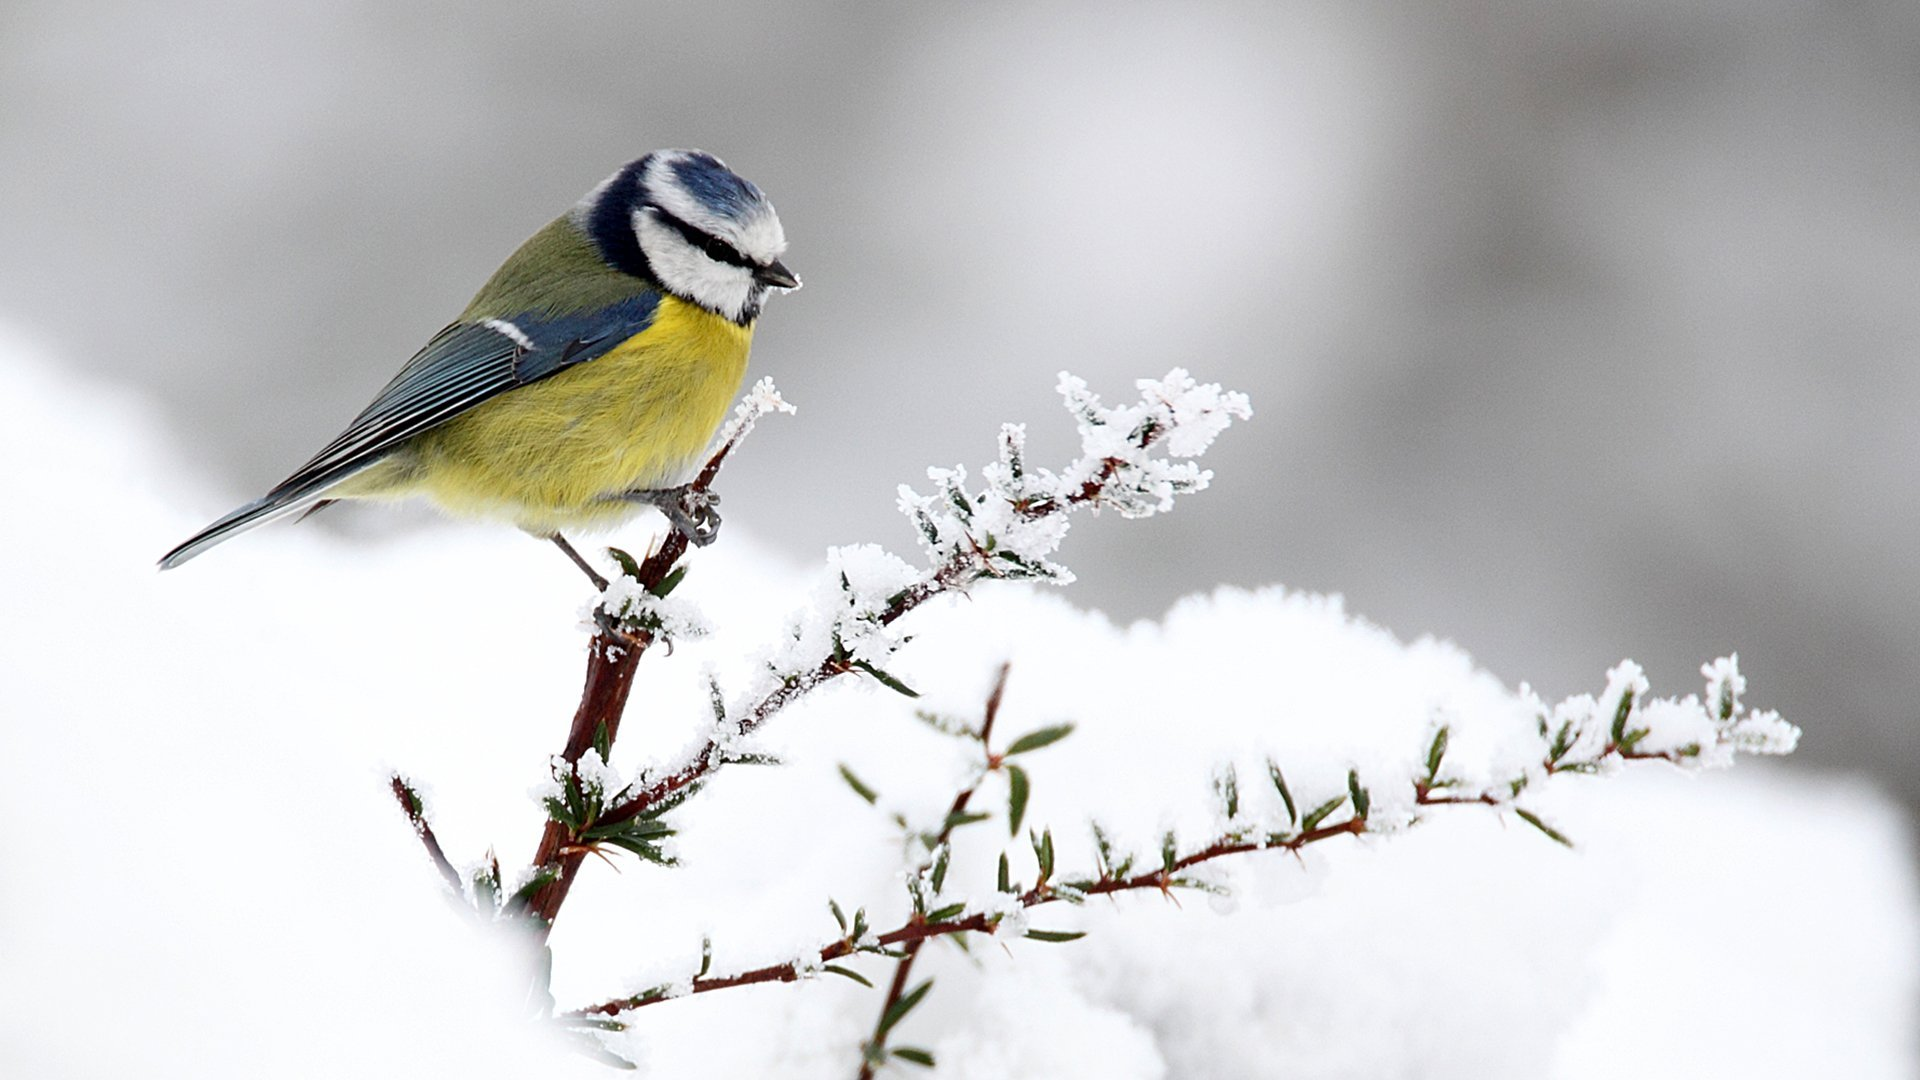
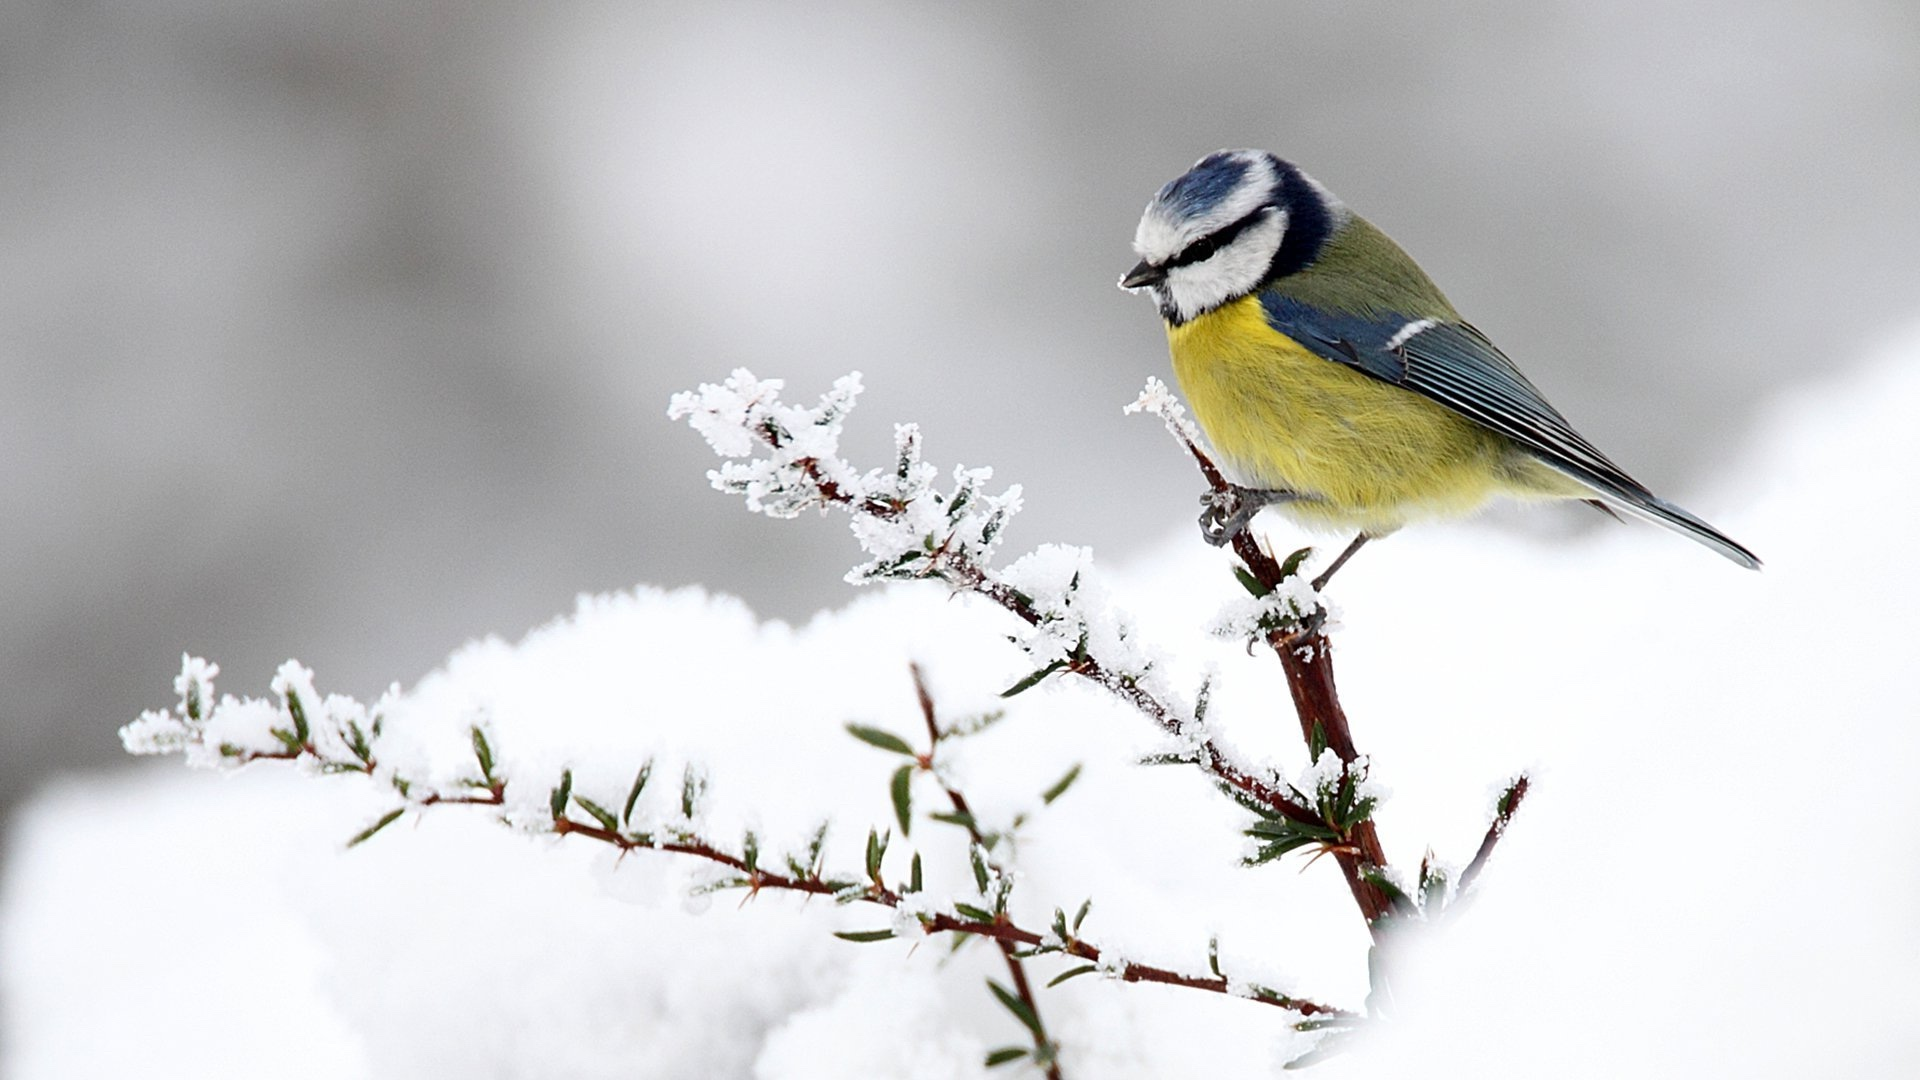
1

diff --git a/index.html b/index.html
@@ -102,7 +102,7 @@ height="0" width="0" style="display:none;visibility:hidden"></iframe></noscript>
     {"@context":"https://schema.org","@type":"WebSite","name":"Kormushka.by","alternateName":["Kormuhka","Кормушки для птиц в Беларуси"],"url":"https://kormuhka.github.io/","inLanguage":"ru"}
     </script>
     <script type="application/ld+json">
-    {"@context":"https://schema.org","@type":"Organization","name":"Kormushka.by","alternateName":"Kormuhka","url":"https://kormuhka.github.io/","logo":"https://kormuhka.github.io/assets/img/logo/logo.png","email":"kormushka24.by@gmail.com","areaServed":"BY","description":"Сетчатые, бункерные и деревянные кормушки для птиц ручной работы в Беларуси."}
+    {"@context":"https://schema.org","@type":"Organization","name":"Kormushka.by","alternateName":"Kormuhka","url":"https://kormuhka.github.io/","logo":"https://kormuhka.github.io/assets/img/logo/logo-final.png","email":"kormushka24.by@gmail.com","areaServed":"BY","description":"Сетчатые, бункерные и деревянные кормушки для птиц ручной работы в Беларуси."}
     </script>
 
 </head>
@@ -190,7 +190,7 @@ height="0" width="0" style="display:none;visibility:hidden"></iframe></noscript>
                         <div class="col-lg-3">
                             <div class="categories_menu">
                                 <div class="logo">
-                                <a href="/"><img src="assets/img/logo/logo.png" alt="Kormushka.by — кормушки для птиц в Беларуси"></a>
+                                <a href="/"><img src="assets/img/logo/logo-final-small.png" alt="Kormuhka — кормушки для птиц в Беларуси"></a>
                                 </div>
                             </div>
                         </div>
@@ -459,7 +459,7 @@ height="0" width="0" style="display:none;visibility:hidden"></iframe></noscript>
                     <div class="col-lg-4 col-md-5">
                         <div class="widgets_container widget_app">
                             <div class="footer_logo">
-                                <a href="/"><img src="assets/img/logo/logo.png" alt="Kormushka.by — кормушки для птиц в Беларуси"></a>
+                                <a href="/"><img src="assets/img/logo/logo-final-small.png" alt="Kormuhka — кормушки для птиц в Беларуси"></a>
                             </div>
 
                             <div class="footer_social">

diff --git a/contact.html b/contact.html
@@ -64,11 +64,11 @@
     <meta property="og:title" content="Контакты — Kormushka.by">
     <meta property="og:description" content="Связаться с Kormushka.by: вопросы по кормушкам для птиц, заказ и доставка по Беларуси.">
     <meta property="og:url" content="https://kormuhka.github.io/contact">
-    <meta property="og:image" content="https://kormuhka.github.io/assets/img/logo/logo.png">
+    <meta property="og:image" content="https://kormuhka.github.io/assets/img/logo/og-final.png">
     <meta name="twitter:card" content="summary_large_image">
     <meta name="twitter:title" content="Контакты — Kormushka.by">
     <meta name="twitter:description" content="Связаться с Kormushka.by: вопросы по кормушкам для птиц, заказ и доставка по Беларуси.">
-    <meta name="twitter:image" content="https://kormuhka.github.io/assets/img/logo/logo.png">
+    <meta name="twitter:image" content="https://kormuhka.github.io/assets/img/logo/og-final.png">
 
 </head>
 
@@ -155,7 +155,7 @@
                         <div class="col-lg-3">
                             <div class="categories_menu">
                                 <div class="logo">
-                                <a href="/"><img src="assets/img/logo/logo.png" alt=""></a>
+                                <a href="/"><img src="assets/img/logo/logo-final-small.png" alt="Kormuhka — кормушки для птиц в Беларуси"></a>
                                 </div>
                             </div>
                         </div>
@@ -332,7 +332,7 @@
                     <div class="col-lg-4 col-md-5">
                         <div class="widgets_container widget_app">
                             <div class="footer_logo">
-                                <a href="/"><img src="assets/img/logo/logo.png" alt=""></a>
+                                <a href="/"><img src="assets/img/logo/logo-final-small.png" alt="Kormuhka — кормушки для птиц в Беларуси"></a>
                             </div>
 
                             <div class="footer_social">

diff --git a/CRD01A0826.html b/CRD01A0826.html
@@ -162,7 +162,7 @@ height="0" width="0" style="display:none;visibility:hidden"></iframe></noscript>
                         <div class="col-lg-3">
                             <div class="categories_menu">
                                 <div class="logo">
-                                <a href="/"><img src="assets/img/logo/logo.png" alt=""></a>
+                                <a href="/"><img src="assets/img/logo/logo-final-small.png" alt="Kormuhka — кормушки для птиц в Беларуси"></a>
                                 </div>
                             </div>
                         </div>
@@ -400,7 +400,7 @@ height="0" width="0" style="display:none;visibility:hidden"></iframe></noscript>
                     <div class="col-lg-4 col-md-5">
                         <div class="widgets_container widget_app">
                             <div class="footer_logo">
-                                <a href="/"><img src="assets/img/logo/logo.png" alt=""></a>
+                                <a href="/"><img src="assets/img/logo/logo-final-small.png" alt="Kormuhka — кормушки для птиц в Беларуси"></a>
                             </div>
 
                             <div class="footer_social">

diff --git a/fluger-indeec.html b/fluger-indeec.html
@@ -162,7 +162,7 @@ height="0" width="0" style="display:none;visibility:hidden"></iframe></noscript>
                         <div class="col-lg-3">
                             <div class="categories_menu">
                                 <div class="logo">
-                                <a href="/"><img src="assets/img/logo/logo.png" alt=""></a>
+                                <a href="/"><img src="assets/img/logo/logo-final-small.png" alt="Kormuhka — кормушки для птиц в Беларуси"></a>
                                 </div>
                             </div>
                         </div>
@@ -400,7 +400,7 @@ height="0" width="0" style="display:none;visibility:hidden"></iframe></noscript>
                     <div class="col-lg-4 col-md-5">
                         <div class="widgets_container widget_app">
                             <div class="footer_logo">
-                                <a href="/"><img src="assets/img/logo/logo.png" alt=""></a>
+                                <a href="/"><img src="assets/img/logo/logo-final-small.png" alt="Kormuhka — кормушки для птиц в Беларуси"></a>
                             </div>
 
                             <div class="footer_social">

diff --git a/fluger-pchela.html b/fluger-pchela.html
@@ -162,7 +162,7 @@ height="0" width="0" style="display:none;visibility:hidden"></iframe></noscript>
                         <div class="col-lg-3">
                             <div class="categories_menu">
                                 <div class="logo">
-                                <a href="/"><img src="assets/img/logo/logo.png" alt=""></a>
+                                <a href="/"><img src="assets/img/logo/logo-final-small.png" alt="Kormuhka — кормушки для птиц в Беларуси"></a>
                                 </div>
                             </div>
                         </div>
@@ -399,7 +399,7 @@ height="0" width="0" style="display:none;visibility:hidden"></iframe></noscript>
                     <div class="col-lg-4 col-md-5">
                         <div class="widgets_container widget_app">
                             <div class="footer_logo">
-                                <a href="/"><img src="assets/img/logo/logo.png" alt=""></a>
+                                <a href="/"><img src="assets/img/logo/logo-final-small.png" alt="Kormuhka — кормушки для птиц в Беларуси"></a>
                             </div>
 
                             <div class="footer_social">

diff --git a/kormushka-bunkernaya.html b/kormushka-bunkernaya.html
@@ -182,7 +182,7 @@ height="0" width="0" style="display:none;visibility:hidden"></iframe></noscript>
                         <div class="col-lg-3">
                             <div class="categories_menu">
                                 <div class="logo">
-                                <a href="/"><img src="assets/img/logo/logo.png" alt=""></a>
+                                <a href="/"><img src="assets/img/logo/logo-final-small.png" alt="Kormuhka — кормушки для птиц в Беларуси"></a>
                                 </div>
                             </div>
                         </div>
@@ -436,7 +436,7 @@ height="0" width="0" style="display:none;visibility:hidden"></iframe></noscript>
                     <div class="col-lg-4 col-md-5">
                         <div class="widgets_container widget_app">
                             <div class="footer_logo">
-                                <a href="/"><img src="assets/img/logo/logo.png" alt=""></a>
+                                <a href="/"><img src="assets/img/logo/logo-final-small.png" alt="Kormuhka — кормушки для птиц в Беларуси"></a>
                             </div>
 
                             <div class="footer_social">

diff --git a/kormushka-salnitsa.html b/kormushka-salnitsa.html
@@ -182,7 +182,7 @@ height="0" width="0" style="display:none;visibility:hidden"></iframe></noscript>
                         <div class="col-lg-3">
                             <div class="categories_menu">
                                 <div class="logo">
-                                <a href="/"><img src="assets/img/logo/logo.png" alt=""></a>
+                                <a href="/"><img src="assets/img/logo/logo-final-small.png" alt="Kormuhka — кормушки для птиц в Беларуси"></a>
                                 </div>
                             </div>
                         </div>
@@ -430,7 +430,7 @@ height="0" width="0" style="display:none;visibility:hidden"></iframe></noscript>
                     <div class="col-lg-4 col-md-5">
                         <div class="widgets_container widget_app">
                             <div class="footer_logo">
-                                <a href="/"><img src="assets/img/logo/logo.png" alt=""></a>
+                                <a href="/"><img src="assets/img/logo/logo-final-small.png" alt="Kormuhka — кормушки для птиц в Беларуси"></a>
                             </div>
 
                             <div class="footer_social">

diff --git a/assets/css/custom.css b/assets/css/custom.css
@@ -2,7 +2,7 @@
 /* Подвал: юридический текст шире и ниже */
 .footer_top .row > .col-lg-4{flex:0 0 100%;max-width:100%}
 .footer_top .footer_app ul{max-width:1100px;margin:0 auto;padding:0 10px;list-style:none;font-size:12.5px;line-height:1.55;color:#7a7a7a;text-align:center}
-.footer_top .footer_logo a img{width:150px}
+.footer_top .footer_logo a img{width:200px}
 /* Ссылки на смежные сайты мастерской — неброско */
 .footer_sites{margin:6px 0 14px;font-size:12px;line-height:1.5;color:#9a9a9a;text-align:center}
 .footer_sites a{color:#8a8a8a;border-bottom:1px dotted #bdbdbd}
@@ -39,3 +39,6 @@
 .zoom-frame{position:relative;display:inline-block;max-width:100%;overflow:hidden;line-height:0;cursor:zoom-in;box-shadow:0 0 5px 0 rgba(0,0,0,.5)}
 .zoom-frame #xzoom-fancy{display:block;max-width:100%;width:auto;height:auto;box-shadow:none}
 .zoom-lens{display:none;position:absolute;top:0;right:0;bottom:0;left:0;background-repeat:no-repeat;background-color:#fff;pointer-events:none}
+/* Логотип */
+.logo img{max-width:200px;height:auto}
+@media (max-width:767px){.logo img{max-width:140px}}

diff --git a/404.html b/404.html
@@ -143,7 +143,7 @@
                         <div class="col-lg-3">
                             <div class="categories_menu">
                                 <div class="logo">
-                                <a href="/"><img src="assets/img/logo/logo.png" alt=""></a>
+                                <a href="/"><img src="assets/img/logo/logo-final-small.png" alt="Kormuhka — кормушки для птиц в Беларуси"></a>
                                 </div>
                             </div>
                         </div>
@@ -244,7 +244,7 @@
                     <div class="col-lg-4 col-md-5">
                         <div class="widgets_container widget_app">
                             <div class="footer_logo">
-                                <a href="/"><img src="assets/img/logo/logo.png" alt=""></a>
+                                <a href="/"><img src="assets/img/logo/logo-final-small.png" alt="Kormuhka — кормушки для птиц в Беларуси"></a>
                             </div>
 
                             <div class="footer_social">

diff --git a/blog-details1.html b/blog-details1.html
@@ -143,7 +143,7 @@
                     <div class="col-lg-3">
                         <div class="categories_menu">
                             <div class="logo">
-                            <a href="/"><img src="assets/img/logo/logo.png" alt=""></a>
+                            <a href="/"><img src="assets/img/logo/logo-final-small.png" alt="Kormuhka — кормушки для птиц в Беларуси"></a>
                             </div>
                         </div>
                     </div>
@@ -276,7 +276,7 @@
                     <div class="col-lg-4 col-md-5">
                         <div class="widgets_container widget_app">
                             <div class="footer_logo">
-                                <a href="/"><img src="assets/img/logo/logo.png" alt=""></a>
+                                <a href="/"><img src="assets/img/logo/logo-final-small.png" alt="Kormuhka — кормушки для птиц в Беларуси"></a>
                             </div>
 
                             <div class="footer_social">

diff --git a/blog-details2.html b/blog-details2.html
@@ -143,7 +143,7 @@
                     <div class="col-lg-3">
                         <div class="categories_menu">
                             <div class="logo">
-                            <a href="/"><img src="assets/img/logo/logo.png" alt=""></a>
+                            <a href="/"><img src="assets/img/logo/logo-final-small.png" alt="Kormuhka — кормушки для птиц в Беларуси"></a>
                             </div>
                         </div>
                     </div>
@@ -285,7 +285,7 @@
                     <div class="col-lg-4 col-md-5">
                         <div class="widgets_container widget_app">
                             <div class="footer_logo">
-                                <a href="/"><img src="assets/img/logo/logo.png" alt=""></a>
+                                <a href="/"><img src="assets/img/logo/logo-final-small.png" alt="Kormuhka — кормушки для птиц в Беларуси"></a>
                             </div>
 
                             <div class="footer_social">

diff --git a/blog-details3.html b/blog-details3.html
@@ -143,7 +143,7 @@
                     <div class="col-lg-3">
                         <div class="categories_menu">
                             <div class="logo">
-                            <a href="/"><img src="assets/img/logo/logo.png" alt=""></a>
+                            <a href="/"><img src="assets/img/logo/logo-final-small.png" alt="Kormuhka — кормушки для птиц в Беларуси"></a>
                             </div>
                         </div>
                     </div>
@@ -276,7 +276,7 @@
                     <div class="col-lg-4 col-md-5">
                         <div class="widgets_container widget_app">
                             <div class="footer_logo">
-                                <a href="/"><img src="assets/img/logo/logo.png" alt=""></a>
+                                <a href="/"><img src="assets/img/logo/logo-final-small.png" alt="Kormuhka — кормушки для птиц в Беларуси"></a>
                             </div>
 
                             <div class="footer_social">
